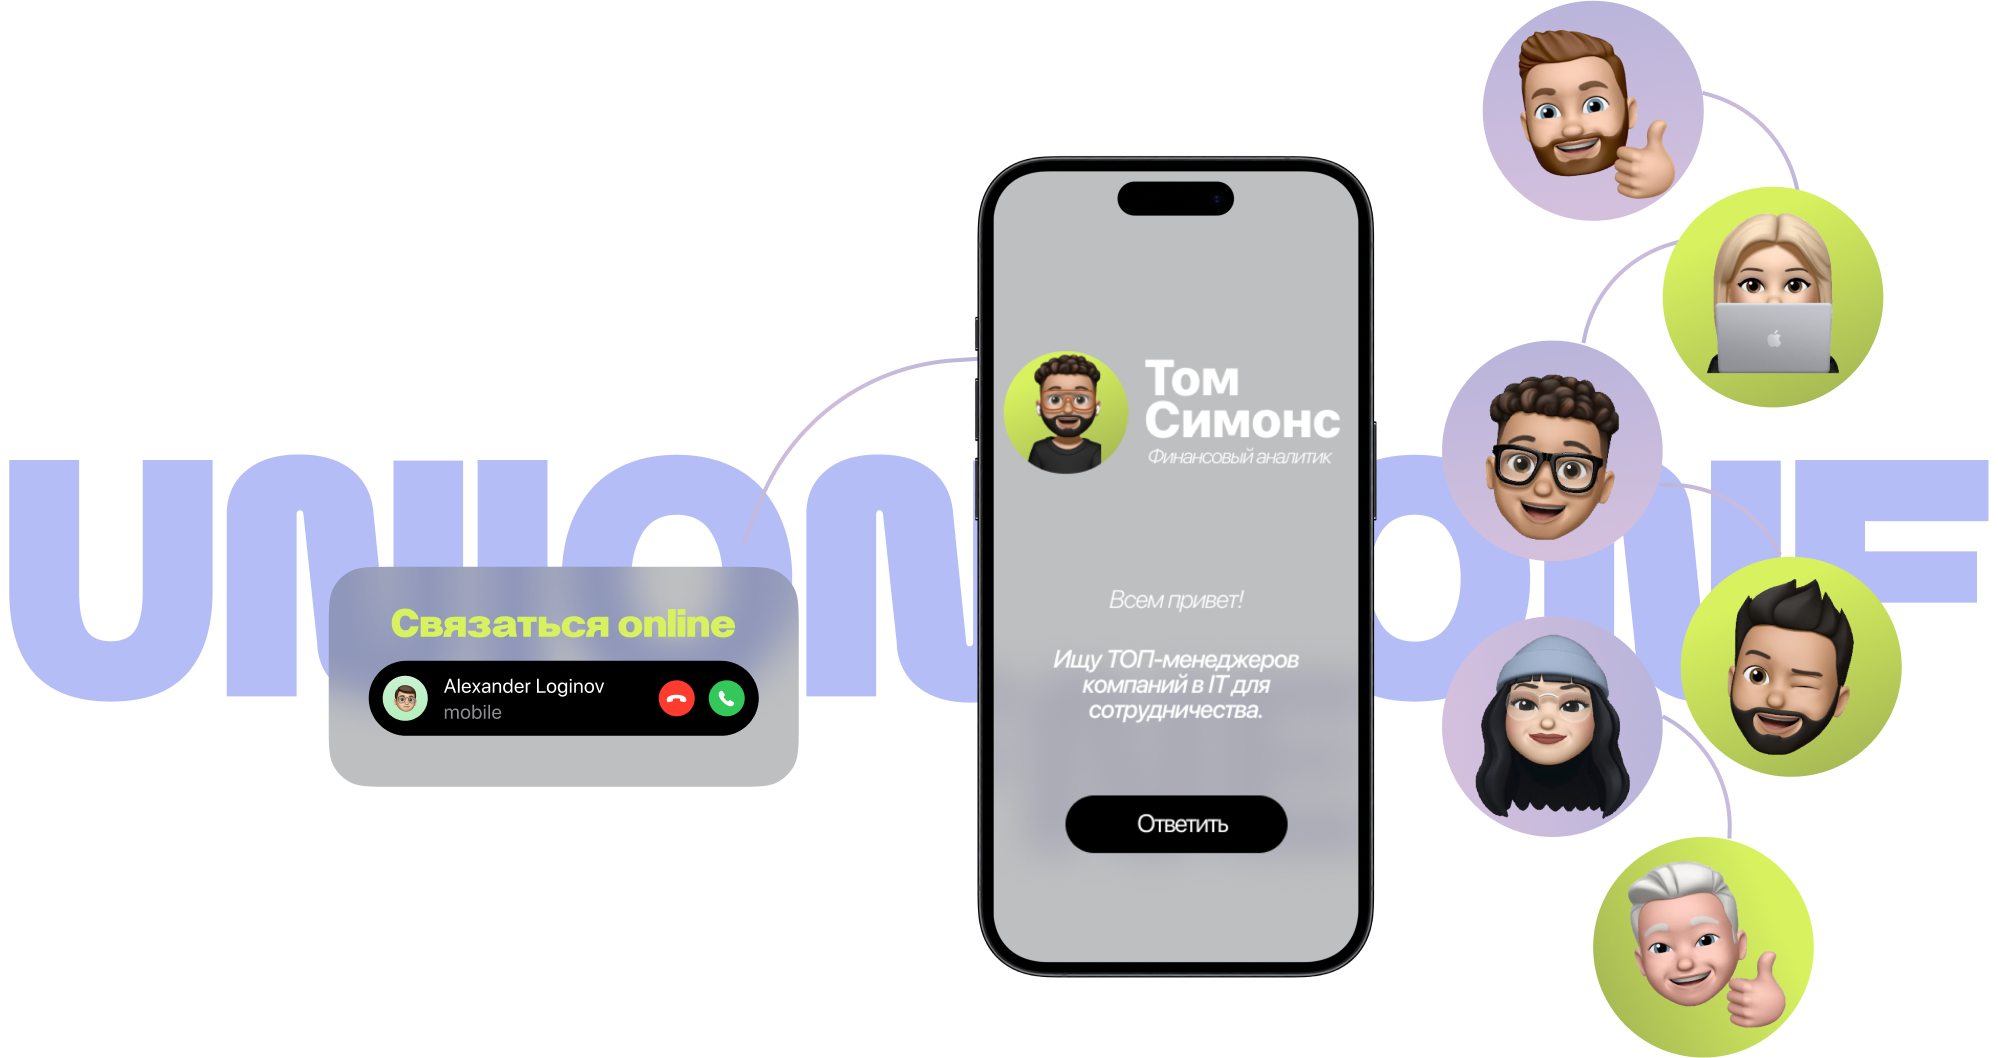
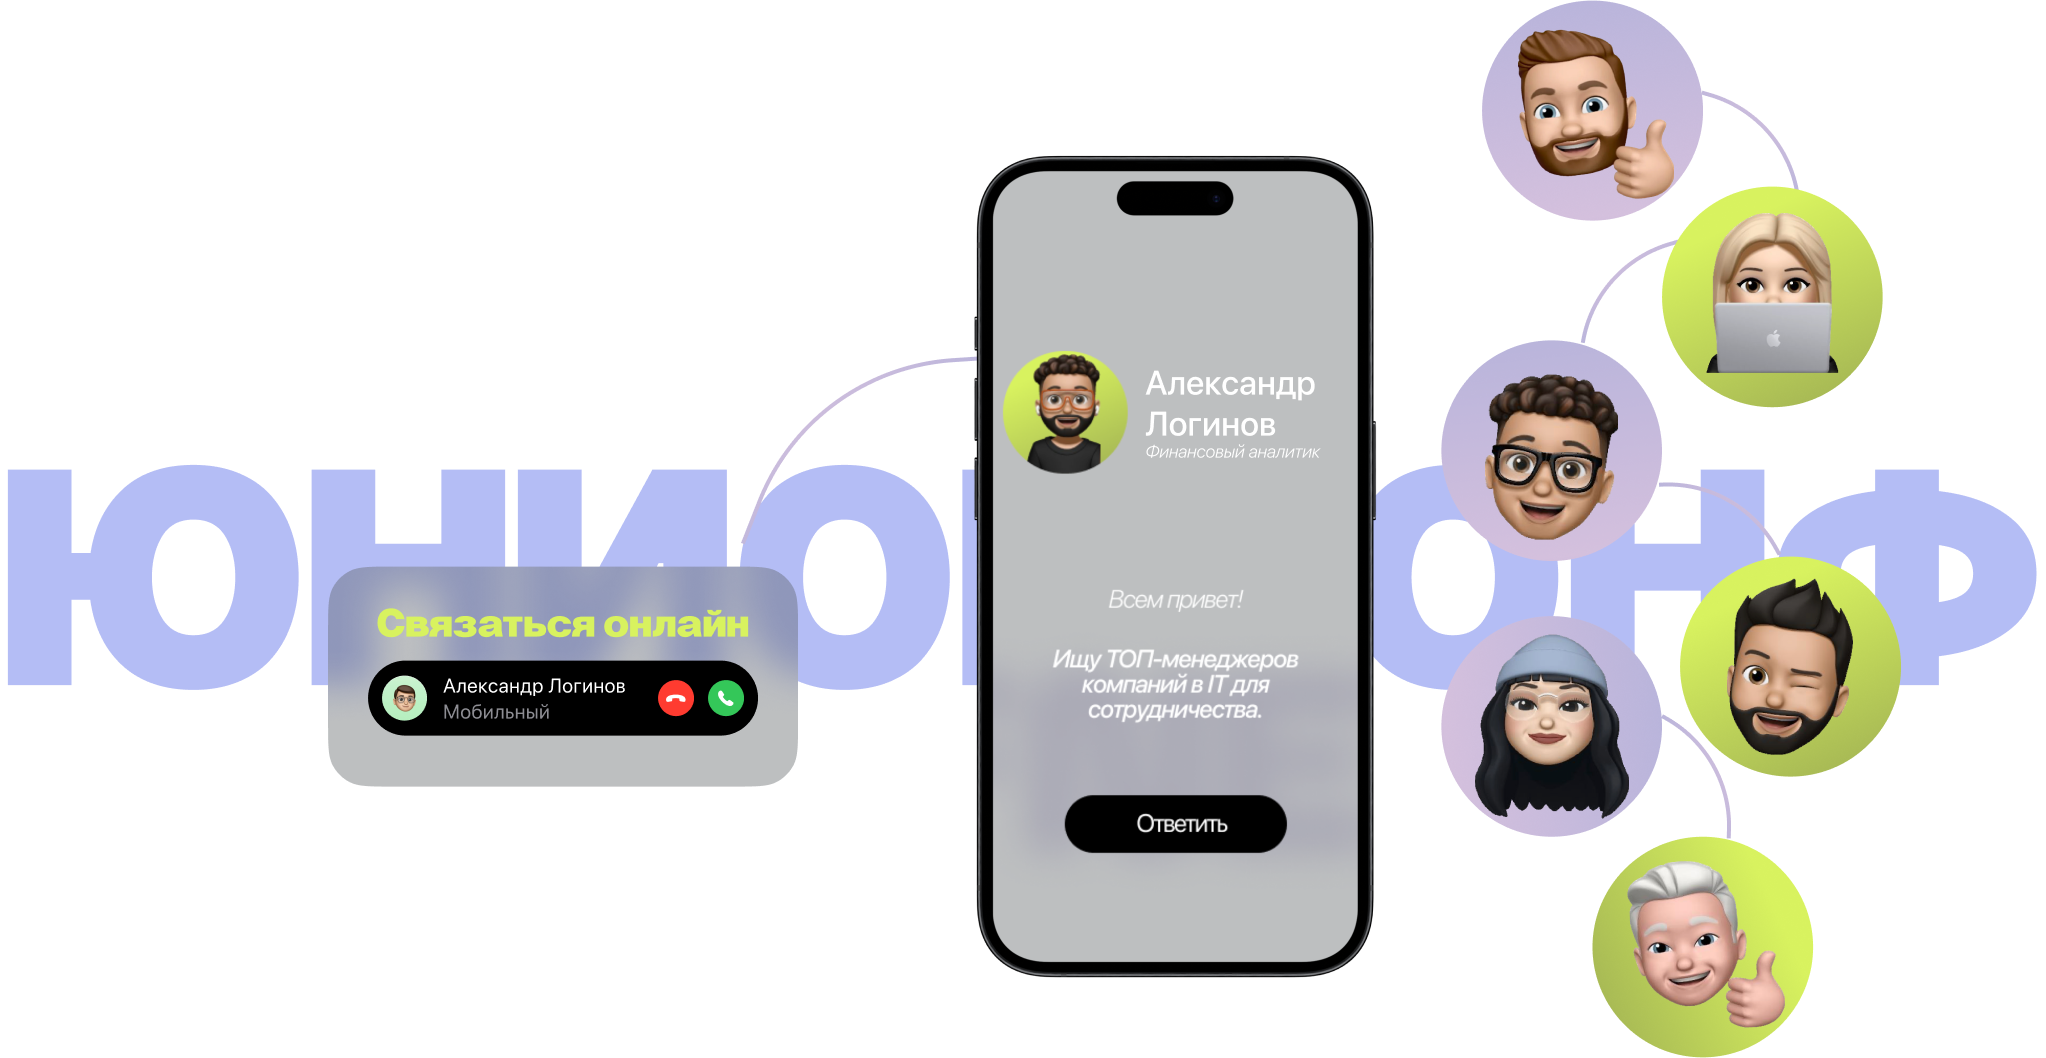
fix images

Changed region(s): [[0.0, 0.0, 1.0, 1.0]]

diff --git a/pages/index.js b/pages/index.js
@@ -146,7 +146,7 @@ export default function Home() {
                 <div className="network__inner">
                     <h2 ref={ref} className= {isVisibleText ? 'network__main-title text-anim active' : 'network__main-title text-anim'}>
                         Хотите создать виртуальное событие? 
-                        Вместе с ЮНИКОНФ это легко!
+                        Вместе с ЮНИОНКОНФ это легко!
                     </h2>
                     <div className="network__content">
                         <div class="title-wrap">
@@ -164,7 +164,12 @@ export default function Home() {
                     </div>
                 </div>
             </div>
-            <img className="network__img" src="./img/networking/cover-complex.png" />
+            <div className="network__bg-decor">
+                <div className="network__bg-wrap">
+                    <img class="network__bg-word" src="./img/networking/Unionconf_back.png" />
+                </div>
+                <img class="network__bg-cover" src="./img/networking/cover.png" />
+            </div>
         </section>
 
         <section className="benefits" id="benefits">
@@ -320,10 +325,8 @@ export default function Home() {
                                         <h3 className="space-slider__title">Выставочная зона</h3>
                                         <div className="space-slider__text">
                                             <p>
-                                                Место, в котором вы можете разместить информацию
-                                                о продуктах компании на виртуальных стендах, познакомиться
-                                                со всеми участниками конференции
-                                                и представителями бизнеса.
+                                            Реалистичная экспо зона , в которой вы можете провести полноценную выставку или конференцию. 
+                                            Десятки интерактивных стендов с возможностью размещения информации о продуктах компаний-участниц и огромная сцена для выступления или презентации.
                                             </p>
                                         </div>
                                     </div>
@@ -357,9 +360,8 @@ export default function Home() {
                                             <h3 className="space-slider__title">Конференц - зал</h3>
                                             <div className="space-slider__text">
                                                 <p>
-                                                    Место для выступления спикеров, располагающее
-                                                    к нетворкингу между участниками мероприятия и поиску новых
-                                                    контактов. 
+                                                            Строгий современный дизайн создает деловую рабочую атмосферу для проведения мероприятий разного формата.
+                                                            Идеально подойдет для презентации, конференции и любого другого бизнес мероприятия.
                                                 </p>
                                             </div>
                                         </div>
@@ -393,7 +395,7 @@ export default function Home() {
                                         <h3 className="space-slider__title">РосПрод</h3>
                                         <div className="space-slider__text">
                                             <p>
-                                            Реалистичный дизайн локации подойдет для точного воспроизведения ваших промышленных процессов. Отличная возможность подробно продемонстрировать партнерам и инвесторам бизнес изнутри.
+                                                Реалистичный дизайн локации подойдет для наиболее точного воспроизведения каждого этапа промышленных процессов. Вы сможете подробно продемонстрировать партнерам, акционерам и потенциальным инвесторам каждый этап производства изнутри и с максимальной точностью.
                                             </p>
                                         </div>
                                     </div>
@@ -427,7 +429,8 @@ export default function Home() {
                                         <h3 className="space-slider__title">Рос Агро Экспо</h3>
                                         <div className="space-slider__text">
                                             <p>
-                                                Локация выставочного типа, в которой любая компания сможет представить свой продукт в выгодном свете благодаря спектру самых современных решений, знаний и уникальных возможностей.
+                                                Выставочная локация, в которой любая торговая или промышленная компания сможет продемонстрировать свою технику и новые разработки в масштабе 1:1 
+                                                в наиболее выгодном свете благодаря уникальным возможностям ЮНИОНКОНФ.
                                             </p>
                                         </div>
                                     </div>
@@ -461,9 +464,8 @@ export default function Home() {
                                         <h3 className="space-slider__title">Космический корабль</h3>
                                         <div className="space-slider__text">
                                             <p>
-                                                Космический корабль
-                                                в футуристичном стиле, на котором можно провести презентацию
-                                                продукта, организовать переговоры с партнёрами по бизнесу
+                                                Космический корабль 
+                                                в футуристичном стиле, на котором можно провести презентацию продукта, организовать переговоры с партнёрами по бизнесу 
                                                 и поучаствовать в увлекательных игровых интерактивах с коллегами.
                                             </p>
                                         </div>
@@ -498,9 +500,9 @@ export default function Home() {
                                         <h3 className="space-slider__title">Арабская ночь</h3>
                                         <div className="space-slider__text">
                                             <p>
-                                                Восточная атмосфера данной локации располагает к спокойному
-                                                и непринуждённому разговору, подойдёт для приватного общения
-                                                с коллегами или партнёрами
+                                                Восточная атмосфера данной локации располагает к спокойному 
+                                                и непринуждённому разговору, подойдёт для приватного общения 
+                                                с коллегами или партнёрами 
                                                 в неформальной обстановке
                                             </p>
                                         </div>

diff --git a/styles/_layout.scss b/styles/_layout.scss
@@ -111,7 +111,7 @@
     background-color: $white;
     position: relative;
     padding-top: 60px;
-    padding-bottom: 7rem;
+    padding-bottom: 6rem;
     @media screen and (max-width: 600px) {
         padding-top: 20px;
     }
@@ -181,18 +181,7 @@
 // Network
 .network {
     background-color: $white;
-    position: relative;
-    min-height: 100vh;
-    margin-bottom: 30%;
-    @media screen and (max-width: 768px) {
-        margin-bottom: 20%;
-    }
-    @media screen and (max-width: 576px) {
-        margin-bottom: 5%;
-    }
-    @media screen and (max-width: 522px) {
-        min-height: auto;
-    }
+    padding-bottom: 200px;
 }
 .network__main-title {
     text-align: center;
@@ -202,7 +191,7 @@
     background-clip: text;
     -webkit-background-clip: text;
     -webkit-text-fill-color: transparent;
-    padding-bottom: 14rem;
+    padding-bottom: 7rem;
     @media screen and (max-width: 768px) {
         font-size: 24px;
     }
@@ -211,7 +200,6 @@
         padding-bottom: 50px;
     }
 }
-
 .network__title {
     font-size: 7.5rem;
     font-weight: 800;
@@ -223,36 +211,77 @@
 .network__subtitle {
     margin-bottom: 1.2rem;
 }
-
 .network__p {
     @media screen and (max-width: 425px) {
         font-size: 16px;
     }
 }
 
-.network__content {
-    
-}
-.network__container {
+.network__bg-decor {
+    width: 100%;
+    background-color: red;
+    margin: 160px auto;
+    max-width: 1800px;
+    display: flex;
+    justify-content: center;
+    align-items: center;
     position: relative;
-    z-index: 4;
+
+    @media screen and (max-width: 576px) {
+        margin-top: 120px;
+        margin-bottom: 120px;
+    }
+    @media screen and (max-width: 425px) {
+        margin-bottom: 100px;
+    }
 }
-.network__img {
-    top: 65%;
-    max-width: 100%;
-    min-width: 460px;
+.network__bg-wrap {
+    width: 100%;
     position: absolute;
-    bottom: 0;
-    right: 0;
     z-index: 1;
-    @media screen and (max-width: 522px) {
-        margin-top: 20px;
-        position: static;
+    overflow: hidden;
+    display: flex;
+    justify-content: center;
+    align-items: center;
+
+    @media screen and (max-width: 576px) {
+        justify-content: flex-start;
     }
-    @media screen and (max-width: 400px) {
-        min-width: 100%;
+
+    img {
+        max-width: 105%;
+        @media screen and (max-width: 576px) {
+            max-width: 200%;
+        }
     }
 }
+.network__bg-cover {
+    margin-right: 5%;
+    position: absolute;
+    z-index: 2;
+    right: 0;
+    max-width: 85%;
+    @media screen and (max-width: 576px) {
+        max-width: 90%;
+    }
+}
+
+@media screen and (max-width: 1280px) {
+    .network {
+        padding-bottom: 20vh;
+    }
+}
+@media screen and (max-width: 992px) {
+    .network {
+        padding-bottom: 60px;
+    }
+}
+@media screen and (max-width: 768px) {
+    .network {
+        padding-bottom: 10px;
+    }
+}
+
 
 
 
@@ -284,6 +313,9 @@
     }
     svg {
         transform: translateY(-2%);
+    }
+    @media screen and (max-width: 576px) {
+        
     }
 }
 .logo-abb {
@@ -343,6 +375,10 @@
     justify-content: center;
     align-items: center;
     margin-bottom: 8.7rem;
+
+    @media screen and (max-width: 576px) {
+        margin-bottom: 45px;
+    }
 }
 
 .benefits__title {
@@ -714,19 +750,20 @@
 }
 
 .footer__social-wrap {
-    border-bottom: 1px solid $white;
+    
 }
 
 .footer__social-item {
     font-size: 3rem;
     font-weight: 400;
     text-transform: uppercase;
-    margin-right: 10%;
+    text-align: center;
+    flex: 0 0 50%;
     @media screen and (max-width: 768px) {
         font-size: 20px;
     }
     @media screen and (max-width: 590px) {
-        font-size: 14px;
+        font-size: 16px;
     }
 }
 
@@ -750,6 +787,7 @@
 }
 
 .footer__uc {
+    border-top: 1px solid $white;
     background-color: $accent;
     padding: 4.2rem 0;
     transition: box-shadow 0.1s ease-in-out;

diff --git a/styles/_components.scss b/styles/_components.scss
@@ -518,7 +518,24 @@
             max-width: 60%;
         }
         &__num {
+            font-size: 86px;
             transform: translate3d(-10%, 80%, 0);
+        }
+    }
+    @media screen and (max-width: 576px) {
+        min-height: 170px;
+        &__content {
+            flex-direction: column;
+            padding: 20px 12px;
+        }
+        &__desc {
+            padding-top: 17px;
+            font-size: 14px;
+            align-self: flex-end;
+            max-width: 60%;
+        }
+        &__num {
+            transform: translate3d(-10%, 90%, 0);
         }
     }
 }
